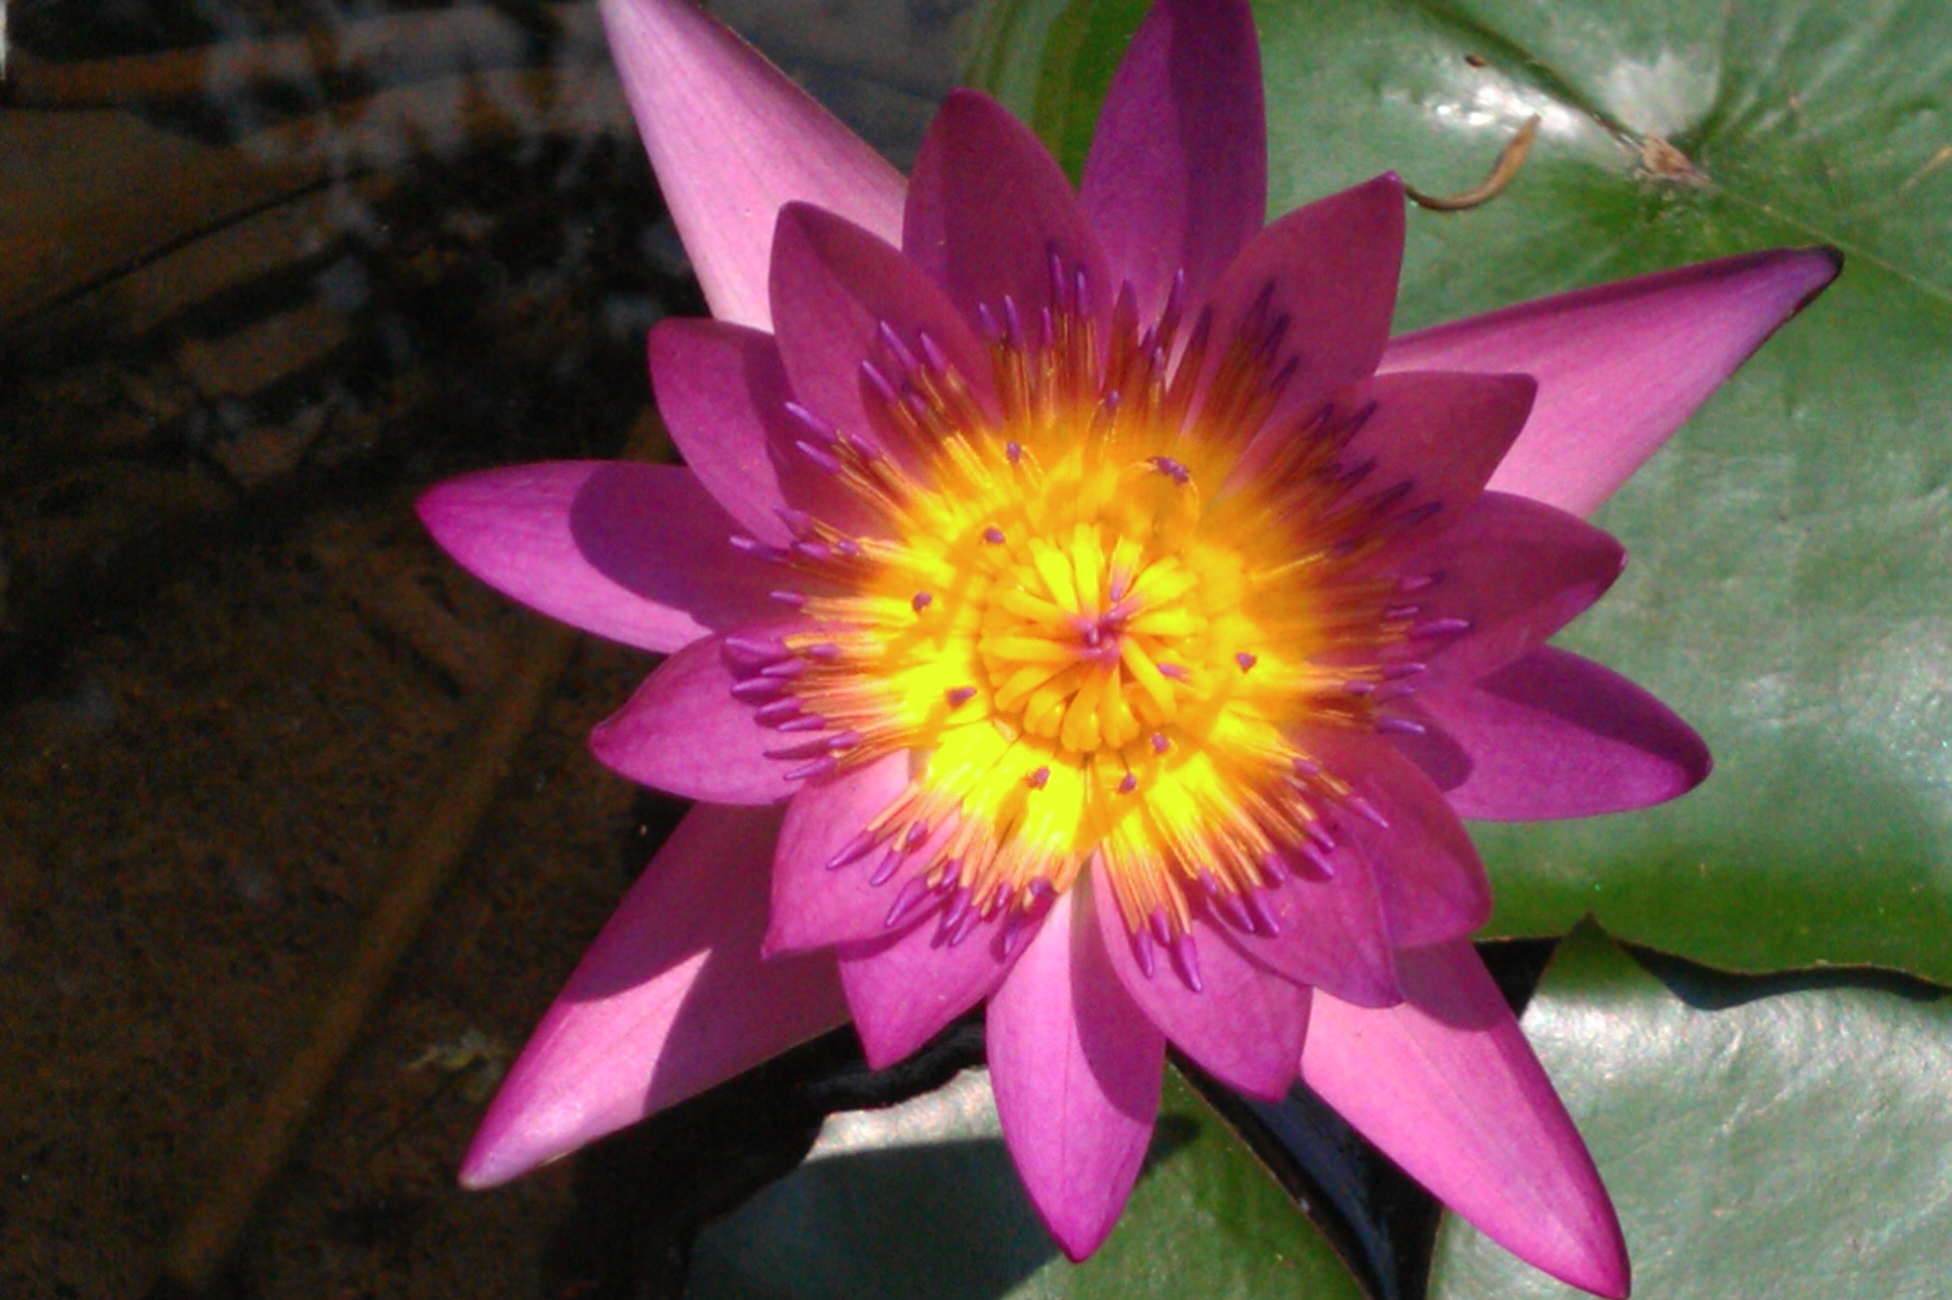
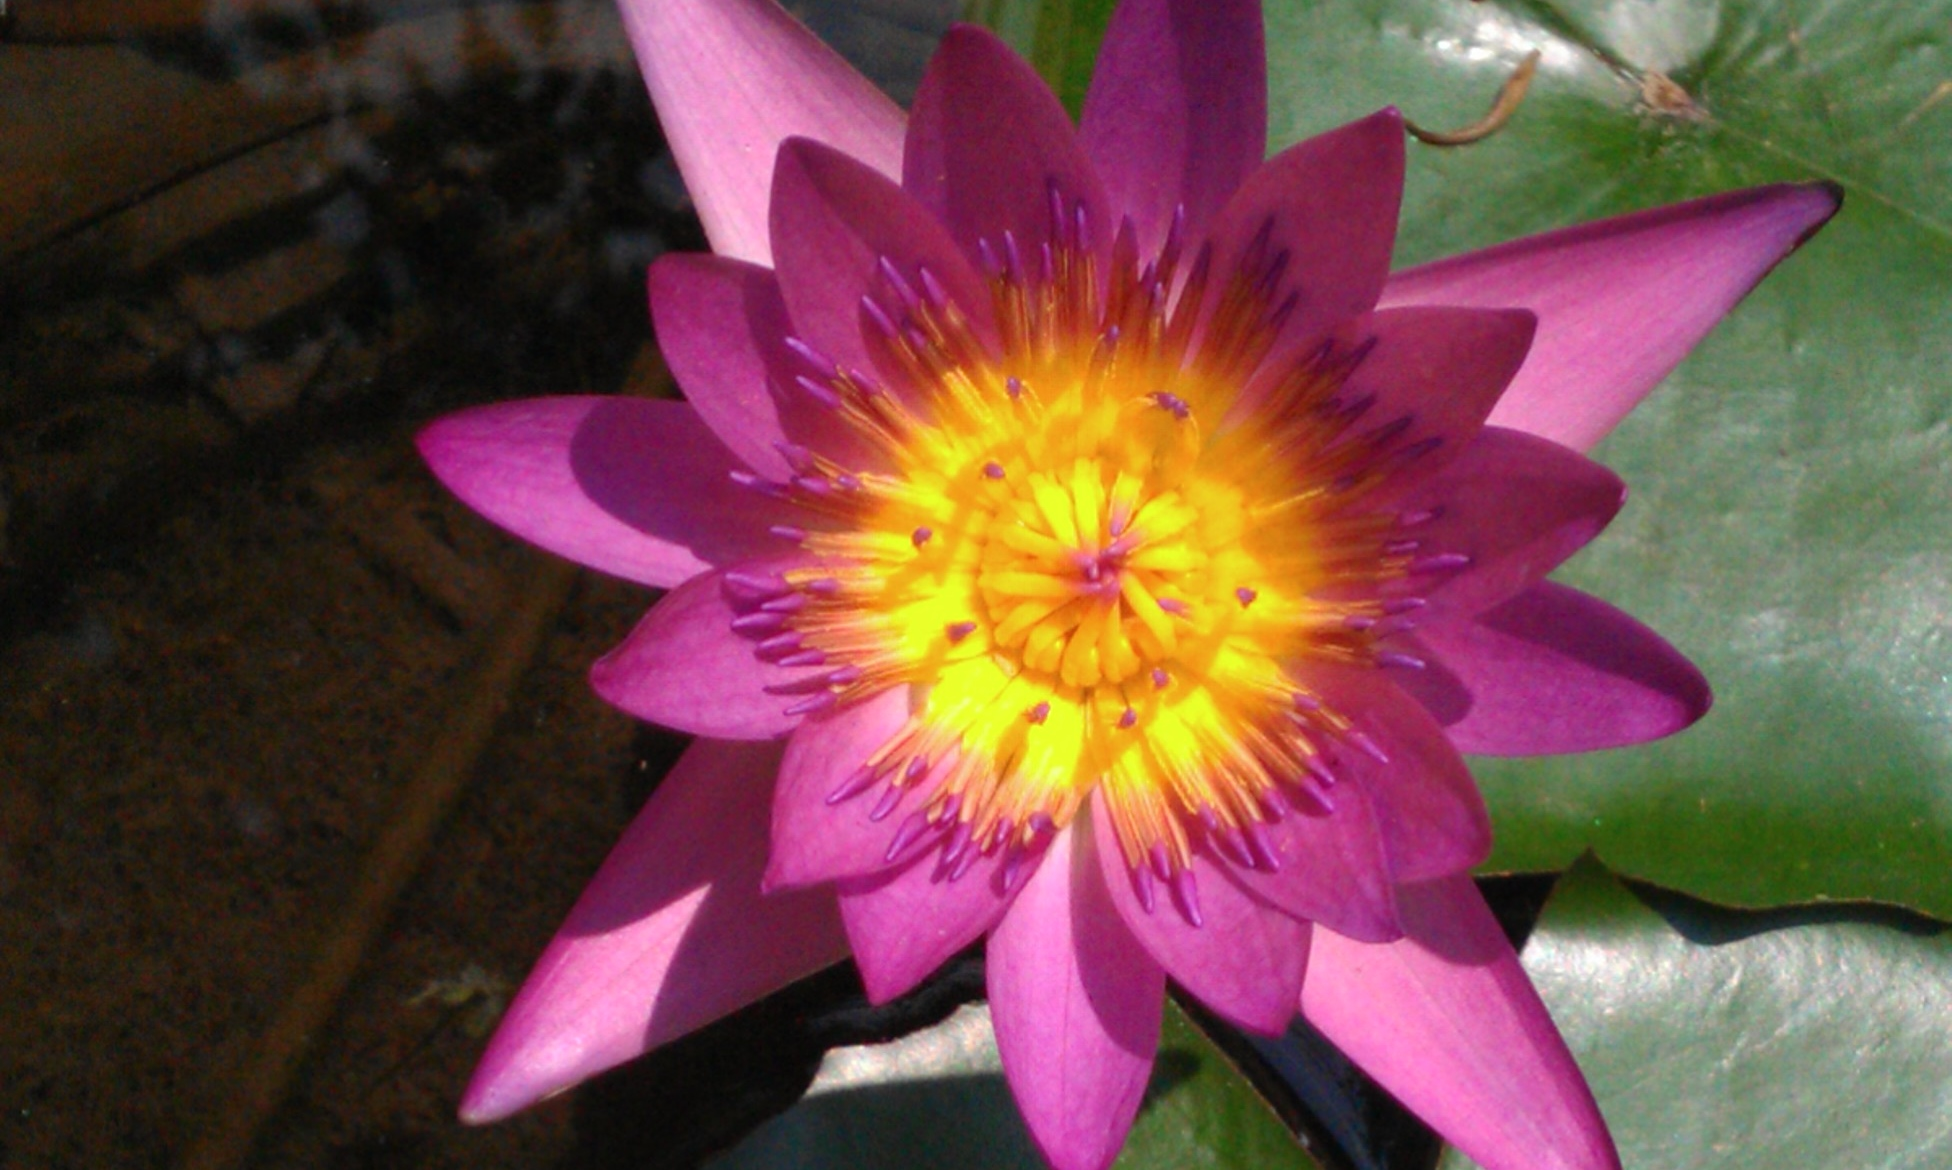
fix the image size

diff --git a/assets/css/aboutme.css b/assets/css/aboutme.css
@@ -1,13 +1,14 @@
 .aboutme_main section > img {
-	position: absolute;
-	z-index: -1;
-	max-width: 100%;
-    opacity: 0.5;
+    position: absolute;
+    max-width: 100%;
+    opacity: 0.6;
 }
 
 .aboutme_main .page {
-	font-size: 28pt;
-	width: 80%;
-	margin-left:15%;
-	margin-top: 25%;
+    position: relative;
+    font-size: 28pt;
+    width: 80%;
+    margin-left:15%;
+    margin-top: 25%;
+    z-index: 3;
 }

diff --git a/README.md b/README.md
@@ -1,5 +1,7 @@
-# DonaldIsFreak personal web.
-使用 **[Minimal Mistakes](http://mmistakes.github.io/minimal-mistakes)**所開發架構為佈景主題。
+# 1984年產物 Blog
+
+此Blog使用 **[Minimal Mistakes](http://mmistakes.github.io/minimal-mistakes)** 作為架構，主要是筆記自己工作及學習心得，藉此自我磨鍊成長，也可讓許多人認識我。
 
 ## License
-採用 [MIT](LICENSE) 。
+
+網站內文全為CC授權。
